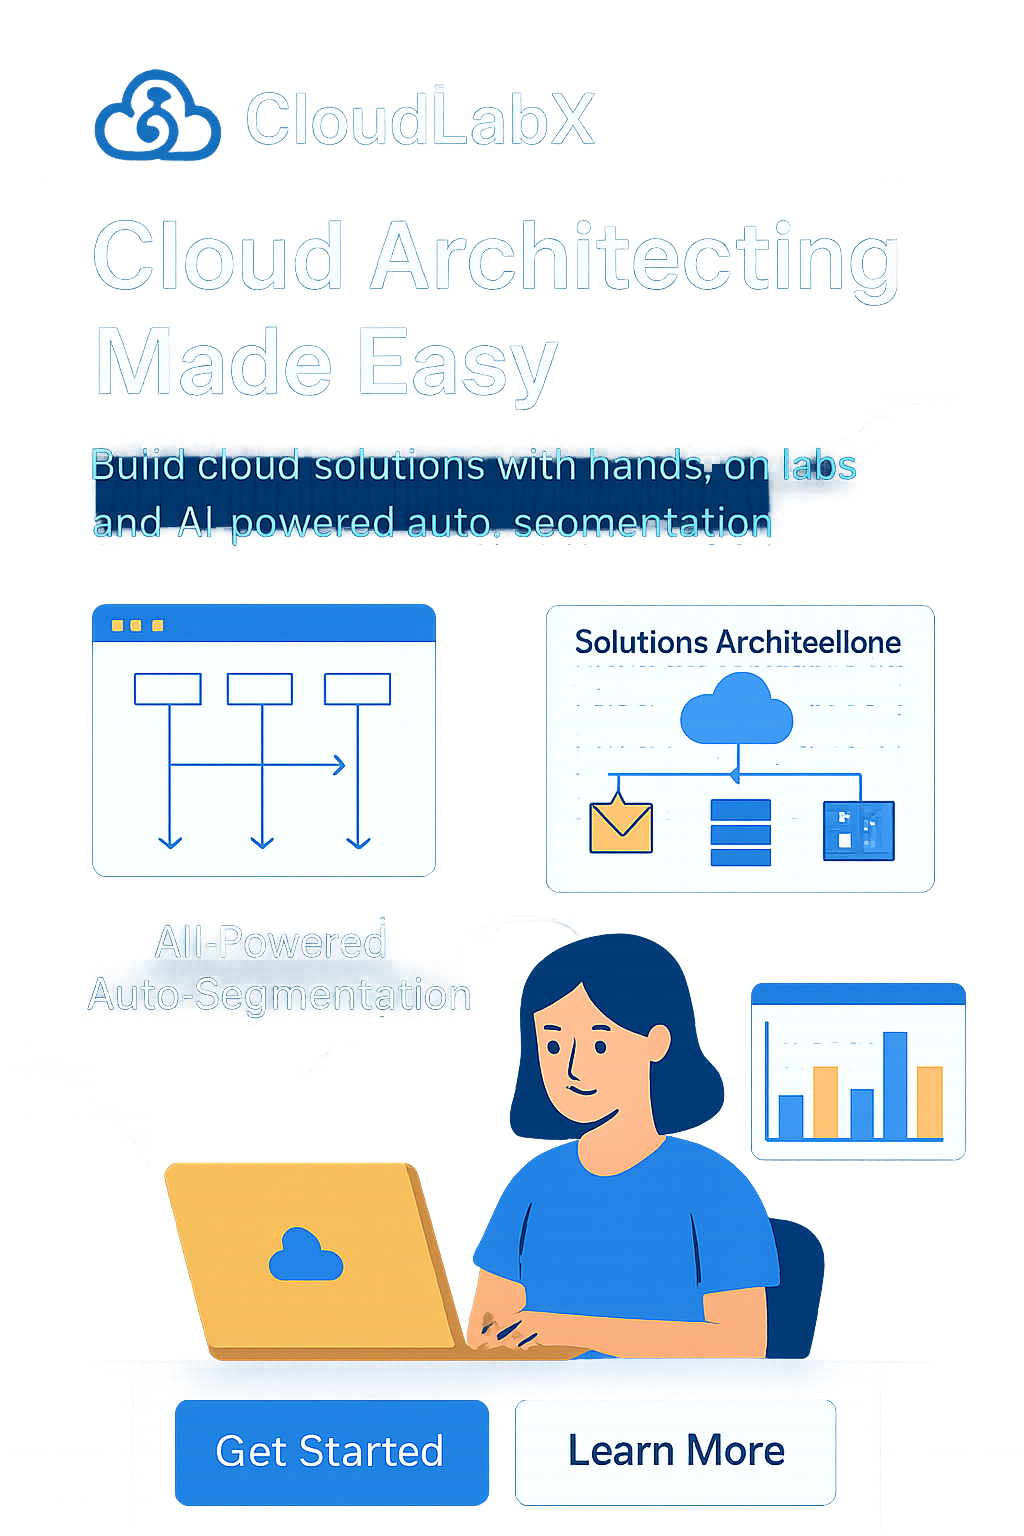
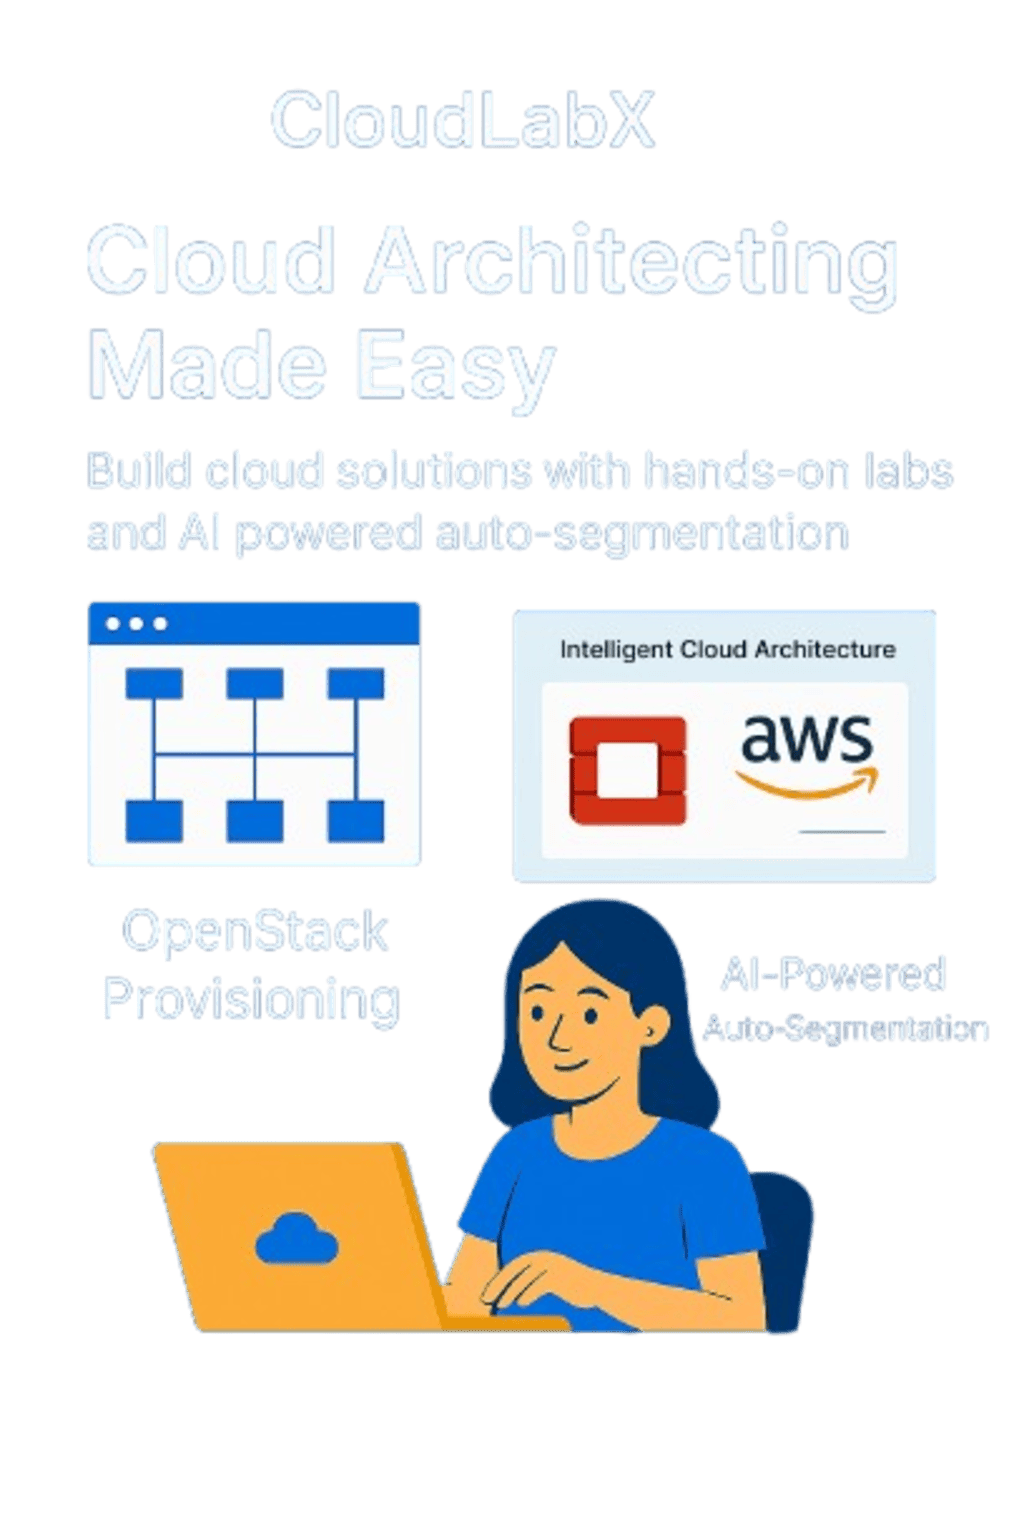
modify

diff --git a/src/app/solutions/auto-segmentation/page.tsx b/src/app/solutions/auto-segmentation/page.tsx
@@ -1,0 +1,125 @@
+"use client";
+
+import React from "react";
+import Navbar from "../../../../components/Navbar";
+import Image from "next/image";
+import Link from "next/link";
+import Footer from "../../../../components/Footer";
+
+export default function AutoSegmentationPage() {
+  return (
+    <>
+      <Navbar isLoggedIn={false} />
+
+      <section className="min-h-screen bg-dark-900 text-gray-200 px-4 py-10">
+        <div className="max-w-5xl mx-auto text-center mb-12">
+          <h1 className="text-4xl font-bold text-white mb-4">
+            AI-Powered Customer Auto-Segmentation
+          </h1>
+          <p className="text-gray-400 text-lg">
+            Discover how CloudLabX intelligently segments your customer data in real-time using AI. 
+            Gain insights. Drive actions. Personalize experiences.
+          </p>
+        </div>
+
+        {/* Video Preview */}
+        <div className="flex justify-center mb-16">
+          <video
+            className="w-full max-w-4xl rounded-xl shadow-lg border border-gray-700"
+            controls
+            poster="/assets/posters/segmentation-thumbnail.jpg"
+          >
+            <source src="/videos/auto-segmentation-demo.mp4" type="video/mp4" />
+            Your browser does not support the video tag.
+          </video>
+        </div>
+
+        {/* Feature Explanation */}
+        <div className="grid grid-cols-1 md:grid-cols-2 gap-12 max-w-6xl mx-auto">
+          <div className="space-y-6">
+            <h2 className="text-2xl font-semibold text-accent-light mb-4">
+              What Auto-Segmentation Does
+            </h2>
+            <p>
+              CloudLabX uses real-time behavioral, demographic, and transactional data 
+              to automatically segment your users into meaningful clusters. With our AI models, 
+              you can identify high-value customers, churn risks, trend-setters, and more — 
+              all without manual tagging or guesswork.
+            </p>
+            <ul className="list-disc list-inside text-gray-400">
+              <li>Behavioral segmentation using activity logs</li>
+              <li>Demographic and psychographic grouping</li>
+              <li>Engagement and lifecycle scoring</li>
+              <li>Predictive segmentation for churn prevention</li>
+              <li>Sales, marketing, and support alignment</li>
+            </ul>
+          </div>
+
+          {/* Dashboard UI Screenshot */}
+          <div>
+            <Image
+              src="/assets/screens/segmentation-dashboard.png"
+              alt="Segmentation Dashboard"
+              width={800}
+              height={500}
+              className="rounded-lg border border-gray-700 shadow-md"
+            />
+            <p className="text-sm text-gray-500 mt-2 text-center">
+              Real-time dashboard view of segmented user cohorts
+            </p>
+          </div>
+        </div>
+
+        {/* Benefits Section */}
+        <div className="mt-20 max-w-4xl mx-auto text-center">
+          <h2 className="text-2xl font-semibold text-indigo-400 mb-4">
+            Benefits of AI-Driven Segmentation
+          </h2>
+          <div className="grid grid-cols-1 sm:grid-cols-2 gap-8 text-left mt-6">
+            <div className="bg-dark-800 p-6 rounded-xl shadow-md border border-gray-700">
+              <h3 className="font-semibold text-white mb-2">📈 Hyper-Personalization</h3>
+              <p className="text-gray-400">
+                Deliver highly targeted messages and offers to different user groups based on real behavior.
+              </p>
+            </div>
+            <div className="bg-dark-800 p-6 rounded-xl shadow-md border border-gray-700">
+              <h3 className="font-semibold text-white mb-2">🔍 Better Product Decisions</h3>
+              <p className="text-gray-400">
+                Use data-backed insights to develop features for your most valuable customer segments.
+              </p>
+            </div>
+            <div className="bg-dark-800 p-6 rounded-xl shadow-md border border-gray-700">
+              <h3 className="font-semibold text-white mb-2">🚀 Increased Retention</h3>
+              <p className="text-gray-400">
+                Predict and prevent churn by identifying disengaged or at-risk cohorts.
+              </p>
+            </div>
+            <div className="bg-dark-800 p-6 rounded-xl shadow-md border border-gray-700">
+              <h3 className="font-semibold text-white mb-2">💡 Smarter Campaigns</h3>
+              <p className="text-gray-400">
+                Automatically sync segments with your CRM or marketing tools for automated workflows.
+              </p>
+            </div>
+          </div>
+        </div>
+
+        {/* Call to Action */}
+        <div className="mt-24 text-center">
+          <h3 className="text-xl text-white font-semibold mb-3">
+            Ready to segment smarter?
+          </h3>
+          <p className="text-gray-400 mb-6">
+            Start using AI-powered segmentation on your customer data in under 5 minutes.
+          </p>
+          <Link href="/signup">
+            <button className="bg-indigo-600 hover:bg-indigo-500 text-white px-6 py-3 rounded-lg font-medium transition">
+              Get Started for Free
+            </button>
+          </Link>
+        </div>
+      </section>
+
+      <Footer />
+    </>
+  );
+}

diff --git a/components/HowItWorks.tsx b/components/HowItWorks.tsx
@@ -9,7 +9,7 @@ export default function HowItWorks() {
           How CloudLabX Works
         </h2>
         <p className="text-lg sm:text-xl text-gray-300 max-w-3xl mx-auto mb-12">
-          Our AI-powered system automates cloud architecture, ensuring efficient segmentation, optimization, and seamless scaling.
+        CloudLabX simplifies complex infrastructure provisioning across both OpenStack and AWS. From AI-powered insights to seamless deployment and ongoing optimization, we help you launch, scale, and manage cloud-native workloads effortlessly.
         </p>
 
         {/* Steps Grid */}
@@ -21,7 +21,7 @@ export default function HowItWorks() {
               AI-Powered Insights
             </h3>
             <p className="text-sm text-gray-300">
-              Our AI analyzes your workloads, detecting optimization opportunities and recommending improvements.
+            Our intelligent engine analyzes both AWS and OpenStack environments to detect bottlenecks, recommend cost savings, and surface architecture improvements.
             </p>
           </div>
 
@@ -32,7 +32,7 @@ export default function HowItWorks() {
               Intelligent Segmentation
             </h3>
             <p className="text-sm text-gray-300">
-              Automatically groups and optimizes workloads based on AI-driven insights, improving efficiency.
+            Automatically segments workloads across cloud platforms using ML-driven logic tailored for hybrid infrastructure.
             </p>
           </div>
 
@@ -40,10 +40,10 @@ export default function HowItWorks() {
           <div className="bg-dark-800 text-white rounded-lg shadow-lg p-6 flex flex-col items-center translate-y-5 animate-fade-in delay-400">
             <UploadCloud size={48} className="text-[#FF6F61] mb-4" />
             <h3 className="text-xl font-semibold text-white mb-2">
-              Cloud Deployment
+            Unified Cloud Deployment
             </h3>
             <p className="text-sm text-gray-300">
-              Deploy optimized cloud architectures with one click, reducing manual setup time.
+            Provision infrastructure on OpenStack or AWS in one click — with pre-validated templates and zero guesswork.
             </p>
           </div>
 
@@ -54,7 +54,7 @@ export default function HowItWorks() {
               Continuous Optimization
             </h3>
             <p className="text-sm text-gray-300">
-              AI continuously monitors and optimizes your cloud environment for maximum efficiency.
+            Our system continuously adapts to workload patterns, ensuring top-tier performance and cost efficiency across both cloud platforms.
             </p>
           </div>
         </div>

diff --git a/tailwind.config.ts b/tailwind.config.ts
@@ -1,25 +1,25 @@
 import type { Config } from "tailwindcss";
 
 const config: Config = {
-  content: ["./pages/**/*.{ts,tsx}", "./components/**/*.{ts,tsx}"],
+  content: ["./pages/**/*.{ts,tsx}", "./components/**/*.{ts,tsx}", "./app/**/*.{ts,tsx}"],
   theme: {
     extend: {
       colors: {
-        blue: {
-          DEFAULT: "#1A73E8", // Main primary blue
-          light: "#64A6F5", // Lighter variant
-          dark: "#0F4CBD",  // Darker variant
-        },
-        red: {
-          DEFAULT: "#FF6F61", // Main secondary red-orange
-          light: "#FFA897",  // Lighter variant
-          dark: "#D44F45",   // Darker variant
-        },
-        accent: {
-          DEFAULT: "#FFD700", // Main gold accent
-          light: "#FFE766",  // Lighter variant
-          dark: "#E6C200",   // Darker variant
-        },
+        "blue": "#1A73E8",
+        "blue-light": "#64A6F5",
+        "blue-dark": "#0F4CBD",
+        "red": "#FF6F61",
+        "red-light": "#FFA897",
+        "red-dark": "#D44F45",
+        "accent": "#FFD700",
+        "accent-light": "#FFE766",
+        "accent-dark": "#E6C200",
+        "background": "var(--background)",
+        "foreground": "var(--foreground)",
+      },
+      fontFamily: {
+        sans: ["var(--font-sans)", "Arial", "sans-serif"],
+        mono: ["var(--font-mono)", "monospace"],
       },
     },
   },

diff --git a/components/HeroSection.tsx b/components/HeroSection.tsx
@@ -10,8 +10,9 @@ export default function HeroSection() {
           Intelligent Cloud Architecting & AI-Powered Auto-Segmentation
         </h1>
         <p className="text-light-200 text-lg mt-4">
-          {/* CloudLabX provides an interactive cloud lab for designing, testing, and optimizing architectures with real-world use cases. */}
-          Our AI-driven system automatically segments user data using advanced machine learning models tailored for cloud workloads.
+          CloudLabX is your launchpad for architecting OpenStack and AWS workloads.
+          From intelligent provisioning to AI-powered data auto-segmentation, we
+          make workload deployment to the cloud seamless, scalable, and smart.
         </p>
         <div className="mt-6 flex flex-wrap gap-4 justify-center md:justify-start">
           <Link href="/get-started">

diff --git a/components/Navbar.tsx b/components/Navbar.tsx
@@ -8,7 +8,7 @@ export default function Navbar({ isLoggedIn }: { isLoggedIn: boolean }) {
   const [dropdownOpen, setDropdownOpen] = useState(false);
 
   return (
-    <nav className="bg-red-dark text-white shadow-md fixed w-full z-50">
+    <nav className="text-white shadow-md fixed w-full z-50">
       <div className="max-w-7xl mx-auto px-4 sm:px-6 lg:px-8">
         <div className="flex justify-between h-16">
           {/* Logo */}
@@ -123,7 +123,7 @@ export default function Navbar({ isLoggedIn }: { isLoggedIn: boolean }) {
           <Link href="/pricing" className="block hover:text-accent">
             Pricing
           </Link>
-          <Link href="/contact" className="block hover:text-accent">
+          <Link href="#contact-us" className="block hover:text-accent">
             Contact
           </Link>
 

diff --git a/components/ContactUs.tsx b/components/ContactUs.tsx
@@ -11,7 +11,7 @@ export default function ContactUs() {
   };
 
   return (
-    <section className="bg-gradient-to-r from-[#0F4CBD]-500 to-purple-100 text-white py-20 px-6 md:px-16 text-center">
+    <section id="contact-us" className="bg-gradient-to-r from-[#0F4CBD]-500 to-purple-100 text-white py-20 px-6 md:px-16 text-center " >
       <h2 className="text-3xl sm:text-4xl font-bold mb-6">Get in Touch</h2>
       <p className="text-lg mb-8">
         Have questions? Leave your email and we’ll get back to you!
